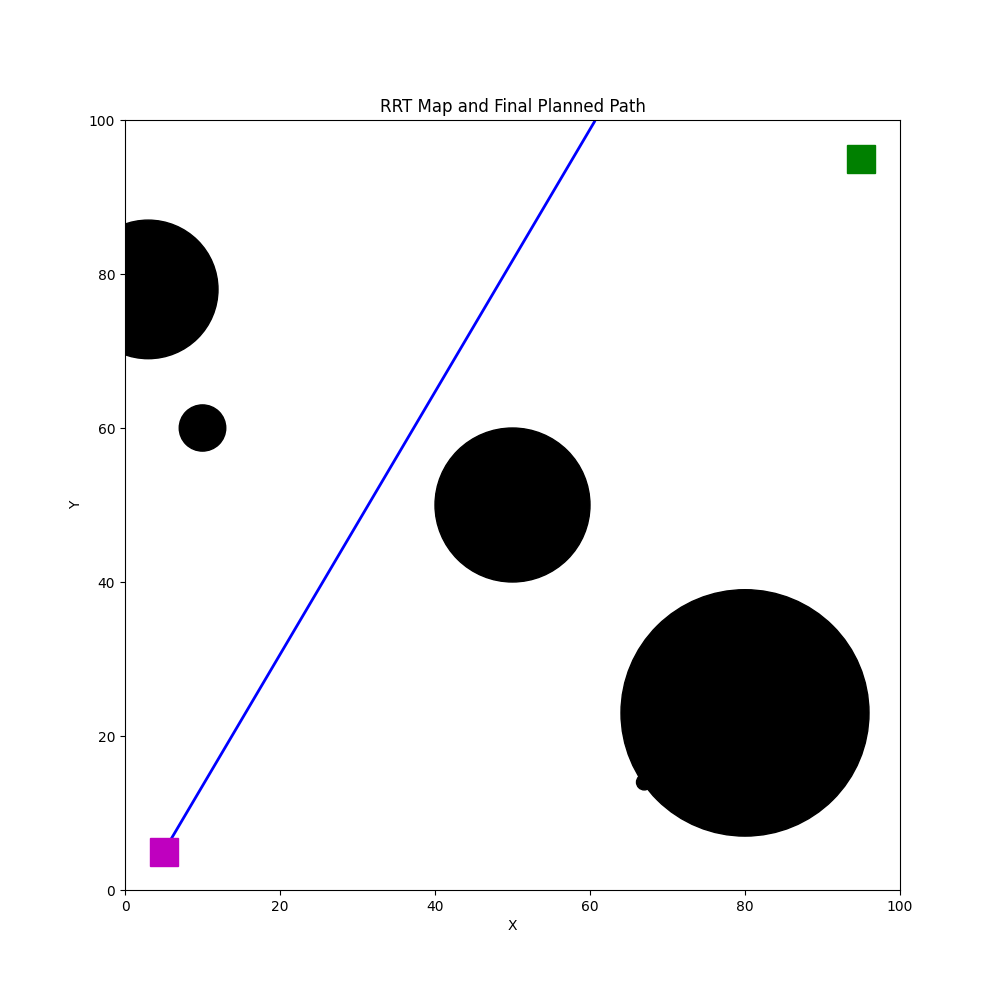
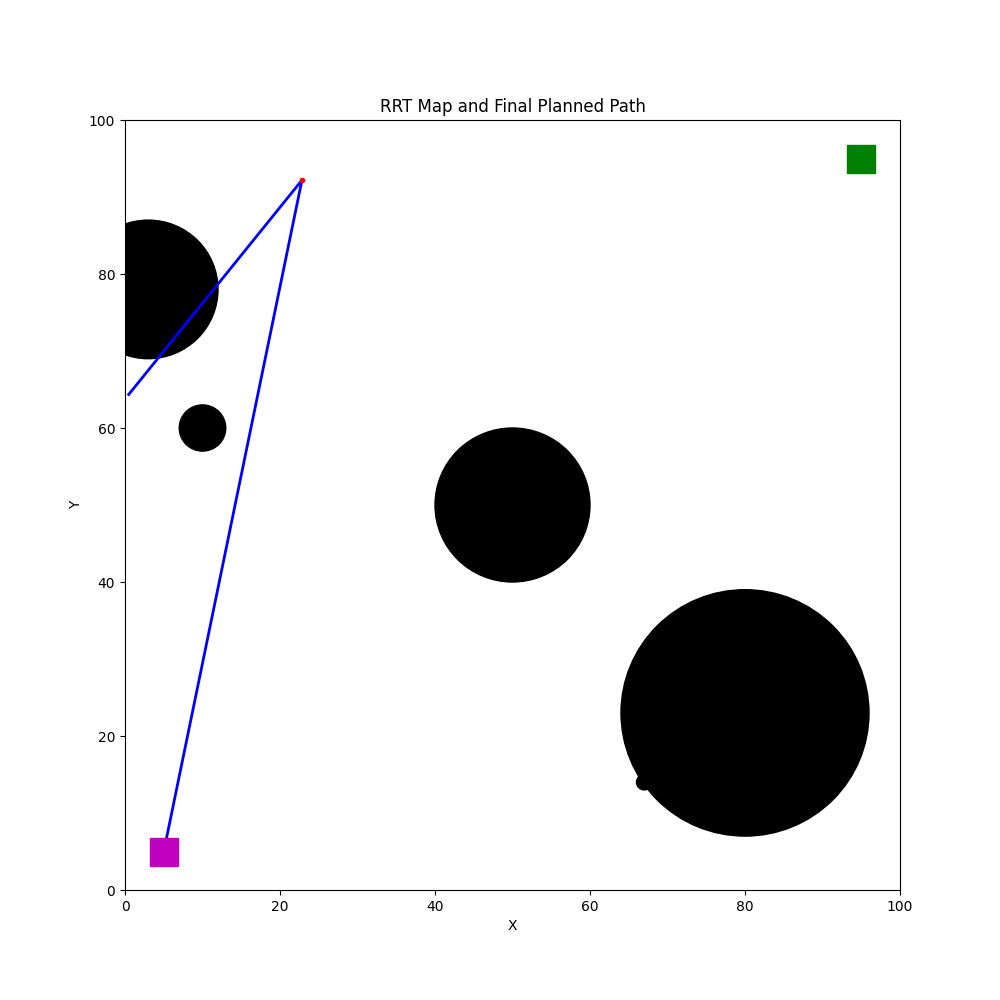
Deriving my own collision algorithm using shortest distance between a line and point, algorithm.

diff --git a/project1/rrt.py b/project1/rrt.py
@@ -1,6 +1,7 @@
 #!/usr/bin/env python3.6
 
 import operator
+import math
 import numpy as np
 import shapely.geometry as sg
 import networkx as nx
@@ -10,15 +11,7 @@ import matplotlib.patches as mpatches
 class RRT:
     def __init__(self, start, obstacles):
         self.start = start
-        # Create obstacles that are circular using sg.Point(x,y).buffer(radius) and list comprehension in Python.
-        self.obstacles = [sg.Point(obstacle[0], obstacle[1]).buffer(obstacle[2]).boundary for obstacle in obstacles]
-        # print(self.obstacles[0])
-        # temp = [(3, 3), (3, 7), (7, 7), (7, 3)]
-        # print(sg.Polygon(temp))
-        # temp = sg.Point(1, 2).buffer(2)
-        # print(temp)
-        # print(list(temp.exterior.coords))
-
+        self.obstacles = obstacles
         self.vertices = [self.start]
         self.edges = []
 
@@ -41,17 +34,18 @@ class RRT:
     # Check that the edge connected x_nearest and x_new does not pass through the any of the obstacle regions.
     # Return True if collision occurs and return false otherwise.
     def CollisionFree(self, x_nearest, x_new):
-        line = sg.LineString([x_nearest, x_new])
-        # # linestrings = list(self.obstacles.exterior.coords)
-        # # print(linestrings)
-        # for obstacle in self.obstacles:
-        #     print(list(obstacle.exterior.coords))
-        #     collision = all(line.intersection(sg.LineStringlinestring) for linestring in list(obstacle.exterior.coords))
-        #     if collision:
-        #         return False
-        # return True
-        print(self.obstacles[0])
-        return not all(line.intersection(sg.LineString(obstacle.exterior.coords)) for obstacle in self.obstacles)
+        # Shortest distance from the center of a circle to a line is given by the following equation:
+        # dist = |a*x0 + b*y0 + c| / sqrt(a^2 + b^2)
+        # where the equation of the line is given by: ax + by + c = 0
+        # and the center of the circle is located at (x0,y0).
+        line_slope = (x_new[1] - x_nearest[1]) / (x_new[0] - x_nearest[0])
+        a = line_slope
+        b = 1
+        c = -line_slope * x_nearest[0] + x_nearest[1]
+        # dist = abs(a*x0 + b*y0 + c) / sqrt(a^2 + b^2)
+        distances = [[abs(a*obstacle[0] + b*obstacle[1] + c) / math.sqrt(a**2 + b**2), obstacle[2]] for obstacle in self.obstacles]
+        print(distances)
+        return all(distance[0] > distance[1] for distance in distances)
         # if line.intersection(self.obstacles):
         #     return False
         # return True
@@ -73,7 +67,6 @@ def getTree(num_iterations, start, goal, obstacles):
             print(x_new)
             rrt.vertices.append(x_new)
             rrt.edges.append([x_nearest, x_new])
-            break
     return rrt.vertices, rrt.edges
 
 
@@ -99,7 +92,7 @@ if __name__ == "__main__":
 
     # ----------------------------------------- Run RRT ----------------------------------------
     
-    vertices, edges = getTree(100, start_coord, goal_coord, obstacle_coords)
+    vertices, edges = getTree(2, start_coord, goal_coord, obstacle_coords)
 
     # -------------------------------------- Create Plots ---------------------------------
     
